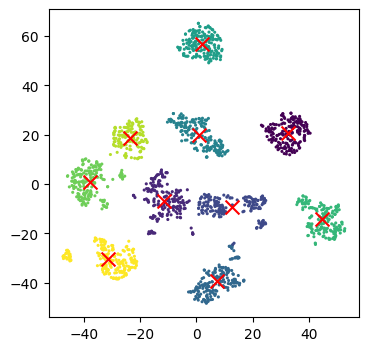
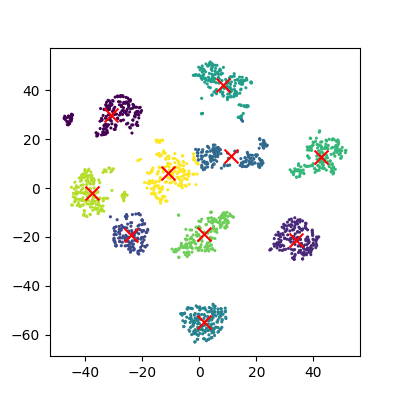
Dimensionality reduction changes in code and figures

diff --git a/episodes/06-dimensionality-reduction.md b/episodes/06-dimensionality-reduction.md
@@ -40,10 +40,10 @@ def plots(x_manifold):
 
     # without labels
     fig = plt.figure(1, figsize=(4, 4))
-    plt.scatter(tx, ty, edgecolor='k',label=labels)
+    plt.scatter(tx, ty, edgecolor='k')
     plt.show()
 
-def plot_clusters(x_manifold, clusters):
+def plot_clusters(x_manifold, clusters, Kmean):
     tx = x_manifold[:, 0]
     ty = x_manifold[:, 1]
     fig = plt.figure(1, figsize=(4, 4))
@@ -62,7 +62,11 @@ def plot_clusters_labels(x_manifold, labels):
             edgecolor='k', label=labels)
     plt.colorbar(boundaries=np.arange(11)-0.5).set_ticks(np.arange(10))
     plt.show()
+~~~
+{: .language-python}
 
+Next lets load in the digits datasets,
+~~~
 # load in dataset as a Pandas Dataframe, return X and Y
 features, labels = datasets.load_digits(return_X_y=True, as_frame=True)
 
@@ -160,8 +164,8 @@ We now have a 2D representation of our 64D dataset that we can work with instead
 ~~~
 Kmean = skl_cluster.KMeans(n_clusters=10)
 Kmean.fit(x_pca)
-clusters = Kmean.predict(x_pca,labels)
-plot_clusters(x_pca, clusters)
+clusters = Kmean.predict(x_pca)
+plot_clusters(x_pca, clusters, Kmean)
 ~~~
 {: .language-python}
 
@@ -184,7 +188,7 @@ It's worth noting that PCA does not handle outlier data well primarily due to gl
 
 t-SNE is a powerful example of manifold learning - a non-deterministic non-linear approach to dimensionality reduction. Manifold learning tasks are based on the idea that the dimension of many datasets is artificially high. This is likely the case for our MNIST dataset, as the corner pixels of our images are unlikely to contain digit data, and thus those dimensions are almost negligable compared with others.
 
-The versatility of the algorithm in transforming the underlying structural information into lower-order projections makes t-SNE applicable to a wide range of research domains.  
+The versatility of the algorithm in transforming the underlying structural information into lower-order projections makes t-SNE applicable to a wide range of research domains.
 
 For more in depth explanations of t-SNE and manifold learning please see the following links which also contain som very nice visual examples of manifold learning in action:
 * [https://thedatafrog.com/en/articles/visualizing-datasets/](https://thedatafrog.com/en/articles/visualizing-datasets/)
@@ -210,9 +214,9 @@ It looks like t-SNE has done a much better job of splitting our data up into clu
 Kmean = skl_cluster.KMeans(n_clusters=10)
 
 Kmean.fit(x_tsne)
-clusters = Kmean.predict(x_tsne,labels)
+clusters = Kmean.predict(x_tsne)
 
-plot_clusters(x_tsne, clusters)
+plot_clusters(x_tsne, clusters, Kmean)
 plot_clusters_labels(x_tsne, labels)
 ~~~
 {: .language-python}
